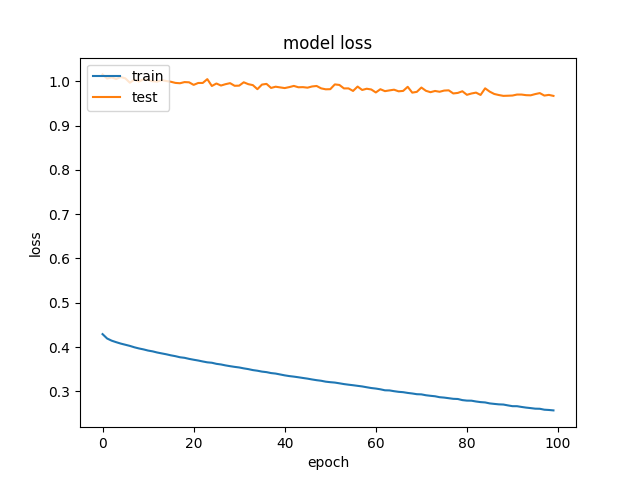
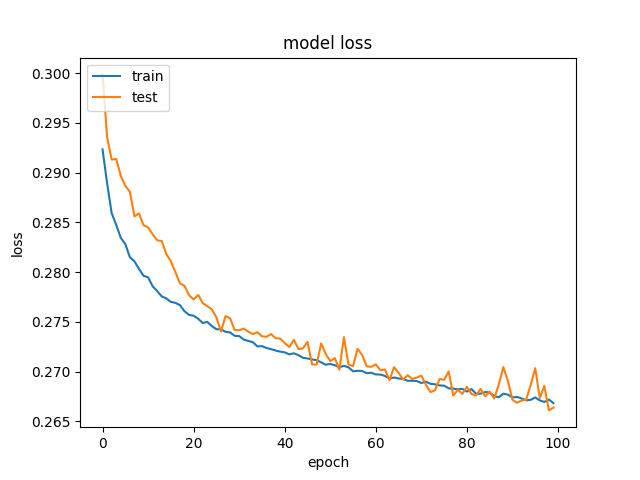
siamese test

diff --git a/Siamese_Model.py b/Siamese_Model.py
@@ -28,7 +28,7 @@ args = vars(ap.parse_args())
 G = args["gpus"]
 
 NUM_EPOCHS = 100
-INIT_LR = 1e-5
+INIT_LR = 1e-6
 lr_decay = 0
 training_batch_size = 32
 # samples_per_checkpoint = 1000
@@ -41,7 +41,8 @@ update_name = "update19"
 # checkpoint_path = "Saved_Models/training_2/cp-{epoch:04d}.ckpt"
 # checkpoint_dir = os.path.dirname(checkpoint_path)
 # dir = "Saved_Model_4/"
-save_dir = "Saved_Models/update4/"
+save_dir = "Saved_Models/update3/"
+save_dir2 = "Saved_Models/update4/"
 
 print("[INFO] Searching Latest checkpoint... ")
 checkpoints = [m for m in os.listdir(save_dir)]
@@ -87,7 +88,7 @@ if G <= 1:
 
     model1 = saved_model.load_keras_model(save_dir + checkpoints[-1])
     model1.layers.pop()
-    model2 = Model(input = model1.input, output = model1.layers[-1])
+    model2 = Model(model1.input, model1.output)
 
     input_a = Input(shape=(100,40,3))
     input_b = Input(shape=(100, 40, 3))
@@ -95,7 +96,7 @@ if G <= 1:
     processed_a = model2(input_a)
     processed_b = model2(input_b)
 
-    distance = Lambda(euclidean_distance, ouput_shape=eucl_dist_output_shape)([processed_a, processed_b])
+    distance = Lambda(euclidean_distance, output_shape=eucl_dist_output_shape)([processed_a, processed_b])
     model = Model([input_a, input_b], distance)
 
 
@@ -126,7 +127,7 @@ print("[INFO] Compiling Model ... ")
 from tensorflow.keras.optimizers import SGD
 
 rms = RMSprop()
-model.compile(optimizer=rms, loss=contrastive_loss, metrics=[accuracy])
+model.compile(optimizer=SGD(INIT_LR,0.99), loss=contrastive_loss, metrics=[accuracy])
 # model.compile(optimizer=RMSprop(lr=INIT_LR), loss='categorical_crossentropy',metrics=['accuracy'])
 
 
@@ -155,13 +156,13 @@ labels = to_categorical(labels, 2)
 # labels = np.reshape(labels, (len_data,1,1,1251))
 
 print("[INFO] Splitting Data to Training/Test splits ...")
-"""
+
 test_size = 0.10
 real_test_size = int(test_size * len_data)
-x_train = np.memmap('x_train_pairs.array', dtype=np.float64, mode='r', shape=((len_data-real_test_size),100,40,3))
-x_test = np.memmap('x_test_pairs.array', dtype=np.float64, mode='r', shape=(real_test_size,100,40,3))
-y_train = np.memmap('y_train_pairs.array', dtype=np.float64, mode='r', shape=((len_data-real_test_size),1251,))
-y_test = np.memmap('y_test_pairs.array', dtype=np.float64, mode='r', shape=(real_test_size,1251,))
+x_train = np.memmap('x_train_pairs.array', dtype=np.float64, mode='r', shape=((len_data-real_test_size),2,100,40,3))
+x_test = np.memmap('x_test_pairs.array', dtype=np.float64, mode='r', shape=(real_test_size,2,100,40,3))
+y_train = np.memmap('y_train_pairs.array', dtype=np.float64, mode='r', shape=((len_data-real_test_size),2,))
+y_test = np.memmap('y_test_pairs.array', dtype=np.float64, mode='r', shape=(real_test_size,2,))
 """
 rng_state = np.random.get_state()
 np.random.shuffle(labels)
@@ -183,7 +184,7 @@ x_train[:] = x_train1
 x_test[:] = x_test1
 y_train[:] = y_train1
 y_test[:] = y_test1
-
+"""
 # x_train, x_test, y_train, y_test = train_test_split(data[0:len_data], labels , test_size=0.20, random_state= 42)
 with open(logfile, 'a') as myfile:
     myfile.write("x_train shape: " + str(x_train.shape) + "y_train shape: " + str(y_train.shape) + '\n')
@@ -203,7 +204,7 @@ print("[INFO] Training starting... ")
 H = model.fit([x_train_new[:,0,:,:,:],x_train_new[:,1,:,:,:]], y_train_new, batch_size=training_batch_size, verbose=1, epochs=NUM_EPOCHS,
               validation_split=validation_split, callbacks=[lr_callback])
 H = H.history
-
+"""
 print("[INFO] Plotting training loss and accuracy ...")
 plt.plot(H['acc'])
 plt.plot(H['val_acc'])
@@ -213,7 +214,7 @@ plt.xlabel('epoch')
 plt.legend(['train', 'test'], loc='upper left')
 plt.savefig(graph_dir + update_name + "_acc")
 plt.clf()
-
+"""
 plt.plot(H['loss'])
 plt.plot(H['val_loss'])
 plt.title('model loss')
@@ -223,10 +224,10 @@ plt.legend(['train', 'test'], loc='upper left')
 plt.savefig(graph_dir + update_name + "_loss")
 
 print("[INFO] Saving Model ...")
-saved_model.save_keras_model(model, save_dir)
+saved_model.save_keras_model(model, save_dir2)
 
 print("[INFO] Testing Model ...")
-H = model.evaluate(x_test, y_test, verbose=1)
+H = model.evaluate([x_test[:,0,:,:,:],x_test[:,1,:,:,:]], y_test, verbose=1)
 
 with open(logfile, 'a') as myfile:
     myfile.write(update_name + " epochs= " + str(NUM_EPOCHS) + " lr= " + str(INIT_LR) + " loss: " + str(
